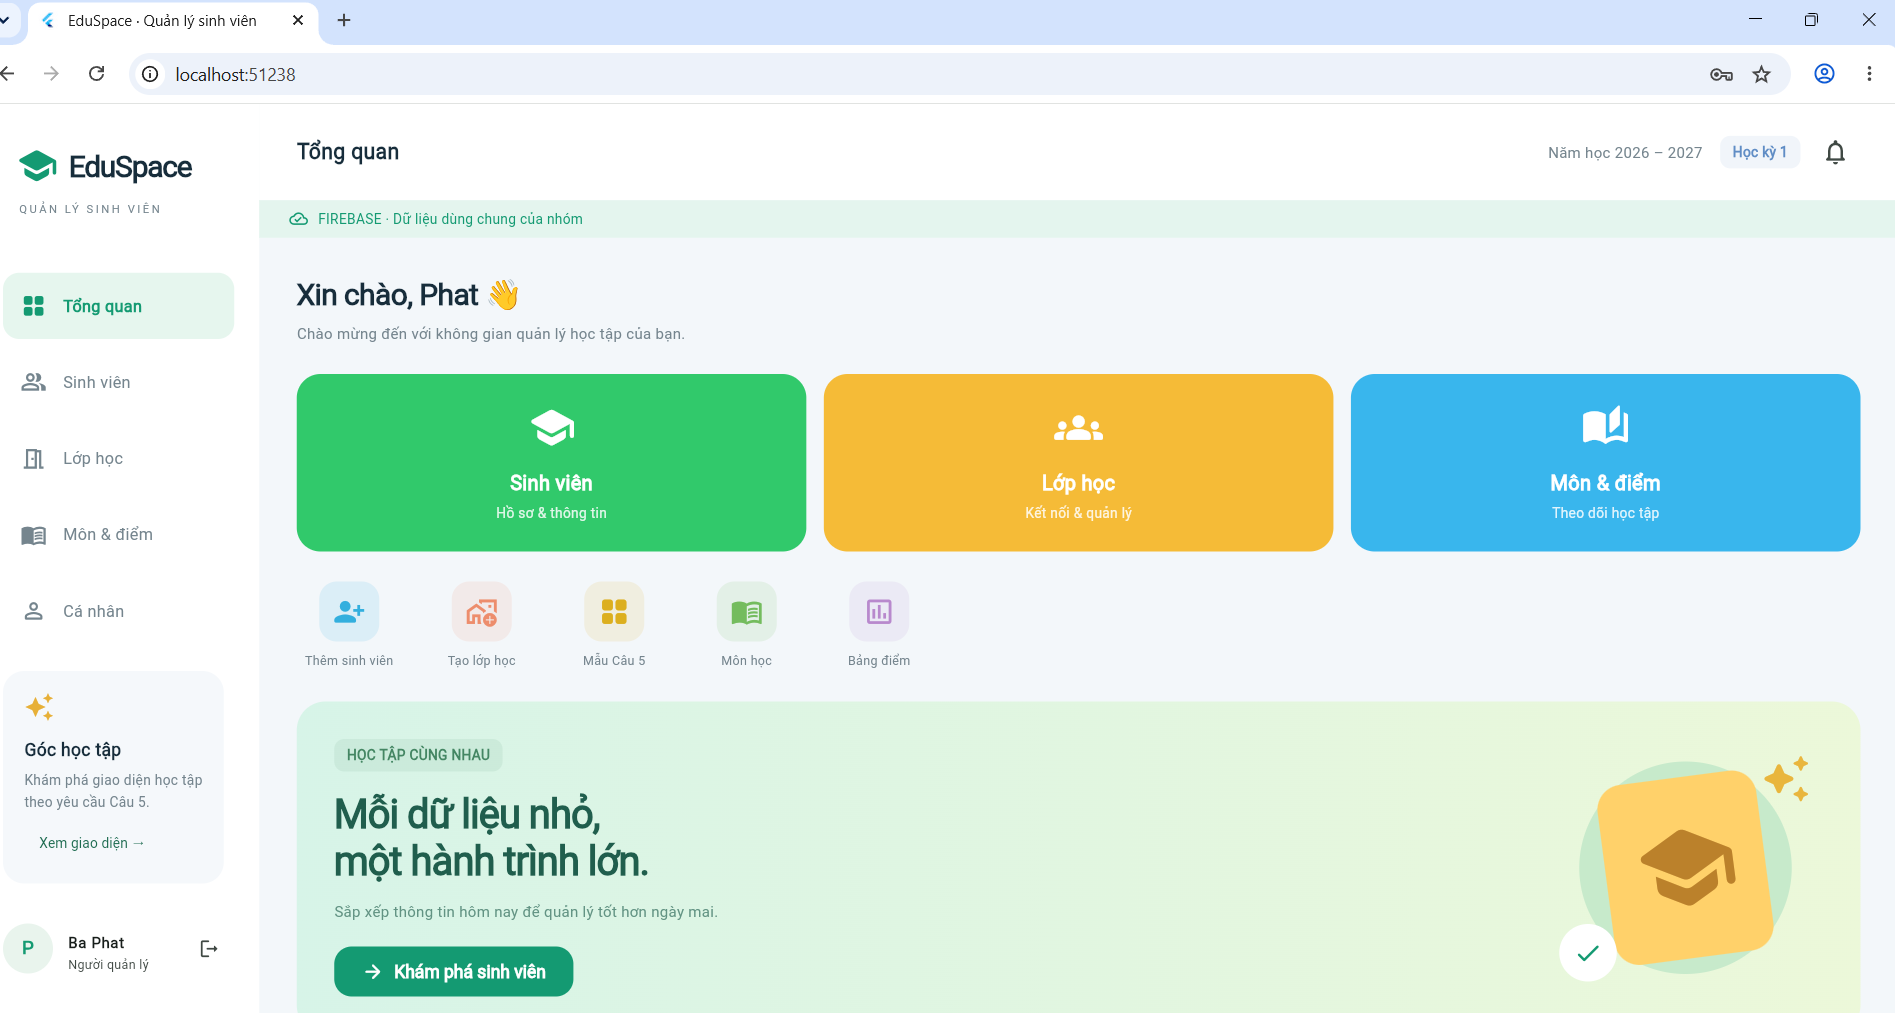
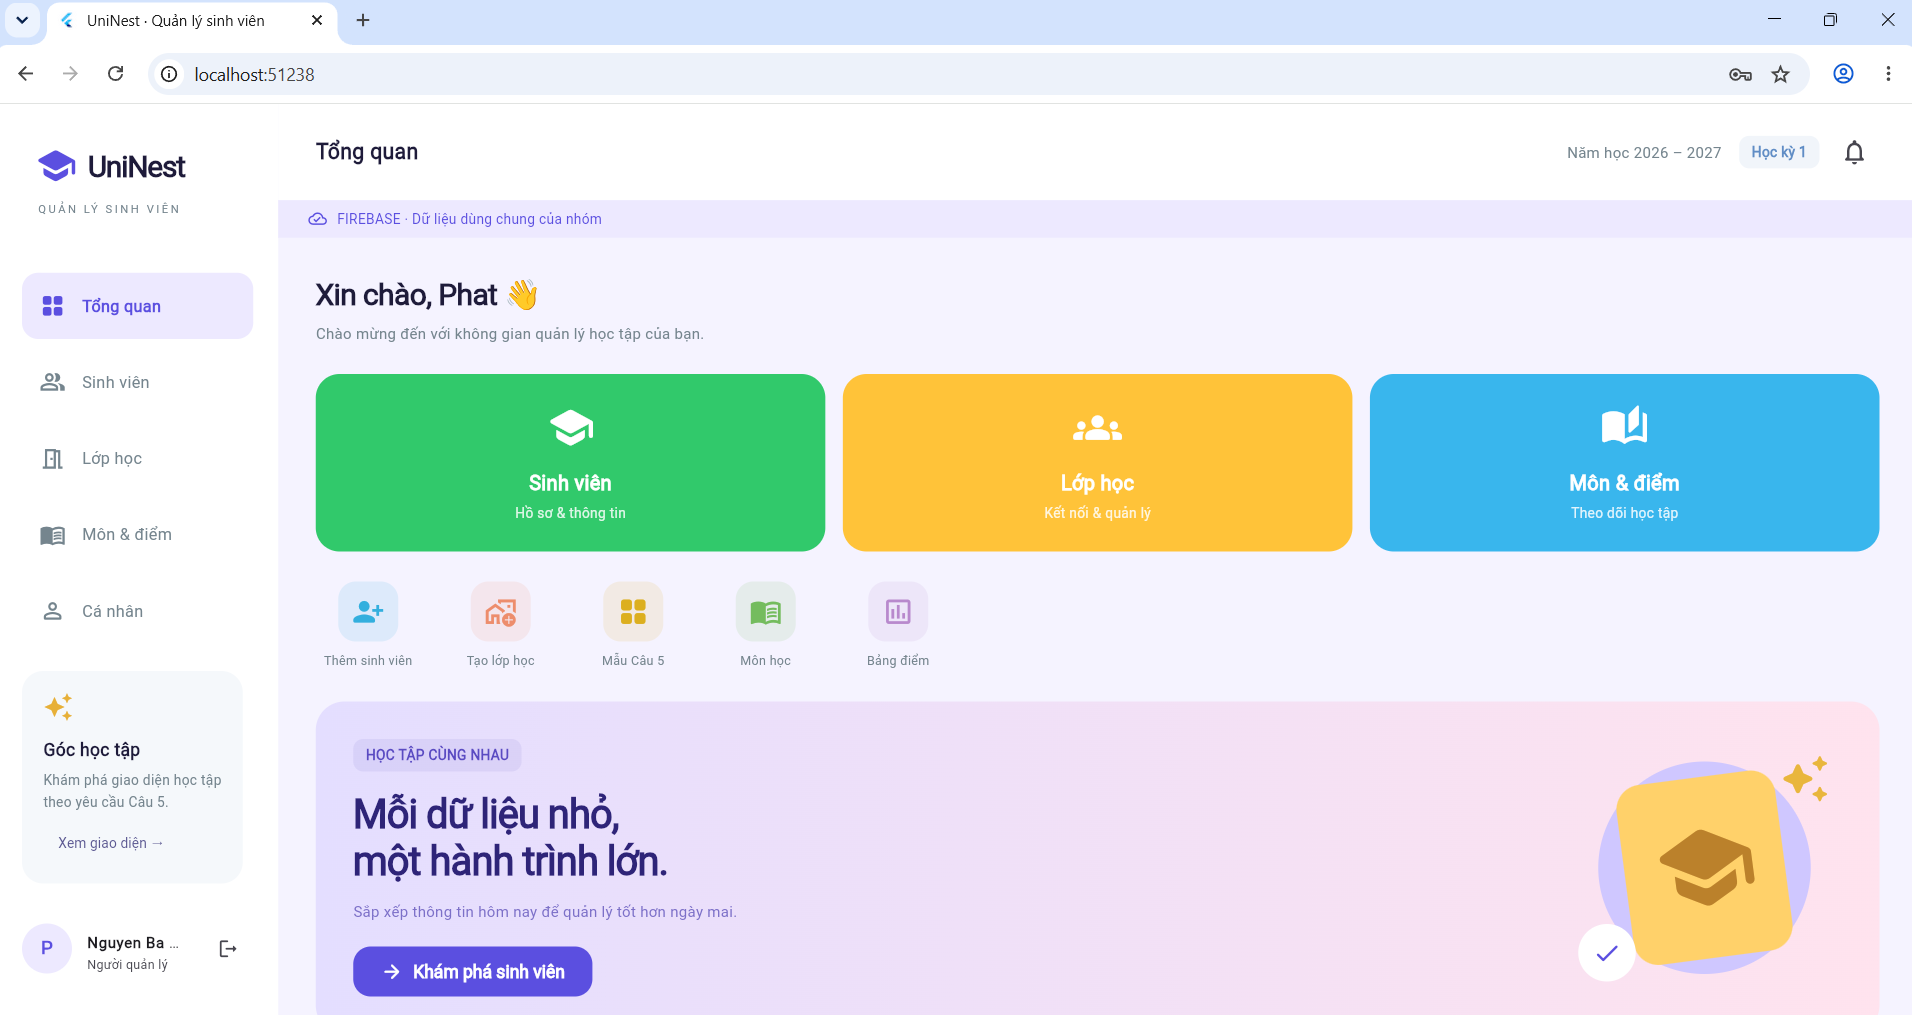
docs: thay ảnh minh chứng bằng ảnh giao diện UniNest mới, thêm ảnh đăng nhập và màn hình mẫu Câu 5

diff --git a/docs/screenshots/firebase-that/README.md b/docs/screenshots/firebase-that/README.md
@@ -1,6 +1,6 @@
 # Ảnh minh chứng: chạy với Firebase thật (G4-03)
 
-Chụp ngày 31/10/2026 từ `flutter run -d chrome --web-port 51238`, đăng nhập bằng tài khoản quản lý
+Ảnh 01–09 và 18–20 chụp lại ngày 31/10/2026 sau khi đổi tên ứng dụng thành UniNest và giao diện tím indigo (ảnh Console 10–17 giữ nguyên). Chụp từ `flutter run -d chrome --web-port 51238`, đăng nhập bằng tài khoản quản lý
 trên project Firebase `qlsv-n05-phat-khoi` (thanh trên cùng của app ghi
 "FIREBASE · Dữ liệu dùng chung của nhóm"). Khác với thư mục `../`, dữ liệu ở đây được ghi vào Firestore.
 
@@ -9,12 +9,15 @@ trên project Firebase `qlsv-n05-phat-khoi` (thanh trên cùng của app ghi
 | `01-dang-nhap-loi.png` | US01 | Đăng nhập sai thông tin: báo lỗi, ở lại màn hình đăng nhập (chụp trước khi bản mới thêm dòng "Chi tiết: mã lỗi") |
 | `02-dang-nhap-thanh-cong.png` | US01, US03 | Đăng nhập thành công, vào màn hình Tổng quan; góc dưới trái có tên và vai trò "Người quản lý" |
 | `03-lop-hoc.png` | Lớp học | Danh sách 4 lớp đã tạo, mỗi lớp 1 sinh viên |
-| `04-sinh-vien-gan-lop.png` | US05, US06, US07 | Danh sách 4 sinh viên, mỗi sinh viên gắn với một lớp (SV01 · MS01 …), có ô tìm kiếm và bộ lọc lớp |
+| `04-sinh-vien-gan-lop.png` | US05, US06, US07 | Hộp thoại hồ sơ sinh viên (xem hồ sơ): mã, ngành, tuổi, email, lớp và điểm trung bình có trọng số; nút Sửa hồ sơ |
 | `05-mon-hoc.png` | Môn học | Danh sách 4 môn học (MH1–MH4, 3 tín chỉ) |
 | `06-nhap-diem.png` | Điểm | Hộp thoại nhập điểm: sinh viên SV01, môn MH1, học kỳ 2026-1, điểm 8 |
 | `07-chan-xoa-sv-co-diem.png` | US08 | Xóa sinh viên đã có điểm bị chặn: "Không thể xóa Nguyễn Văn A: sinh viên đã có 1 bản ghi điểm." |
 | `08-xoa-sv-chua-co-diem.png` | US08 | Xóa sinh viên chưa có điểm thành công: "Đã xóa sinh viên." |
 | `09-doi-ten-hien-thi.png` | US04 | Hộp thoại Cập nhật họ tên (chỉ sửa tên hiển thị; email và quyền không đổi) |
+| `18-dang-nhap-moi.png` | US01 | Màn hình đăng nhập mới: thẻ ở giữa, nền gradient tím-hồng |
+| `19-cau5-phan-dau.png` | Câu 5 | Màn hình mẫu học tập, phần đầu (ba ô lớn, tiện ích, biểu ngữ) |
+| `20-cau5-phan-cuon.png` | Câu 5 | Màn hình mẫu học tập, phần cuộn xuống (Góc giải trí, thanh dưới) |
 
 Ảnh Firebase Console (project `qlsv-n05-phat-khoi`, Firestore Database, tab Data):
 
